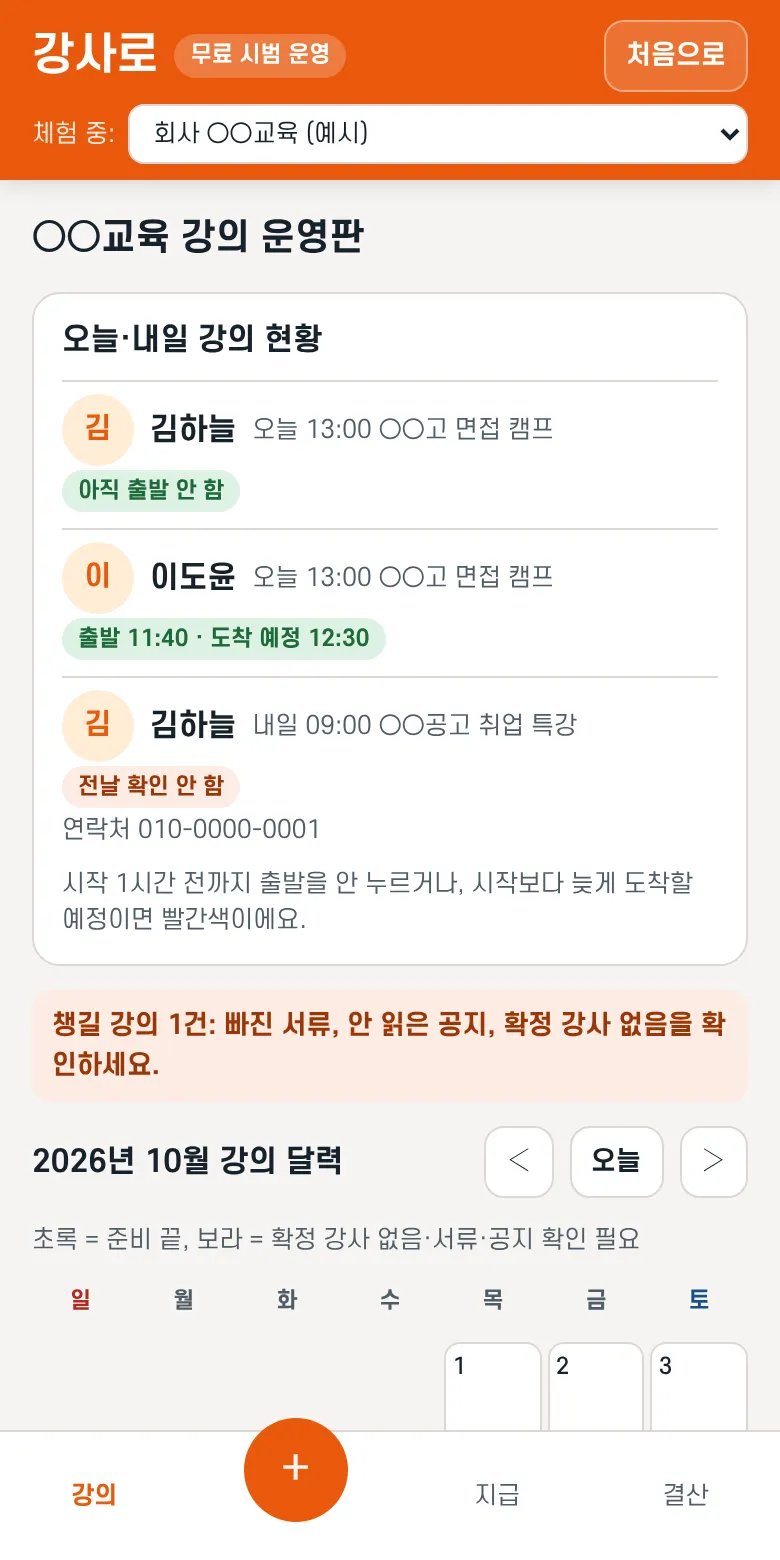
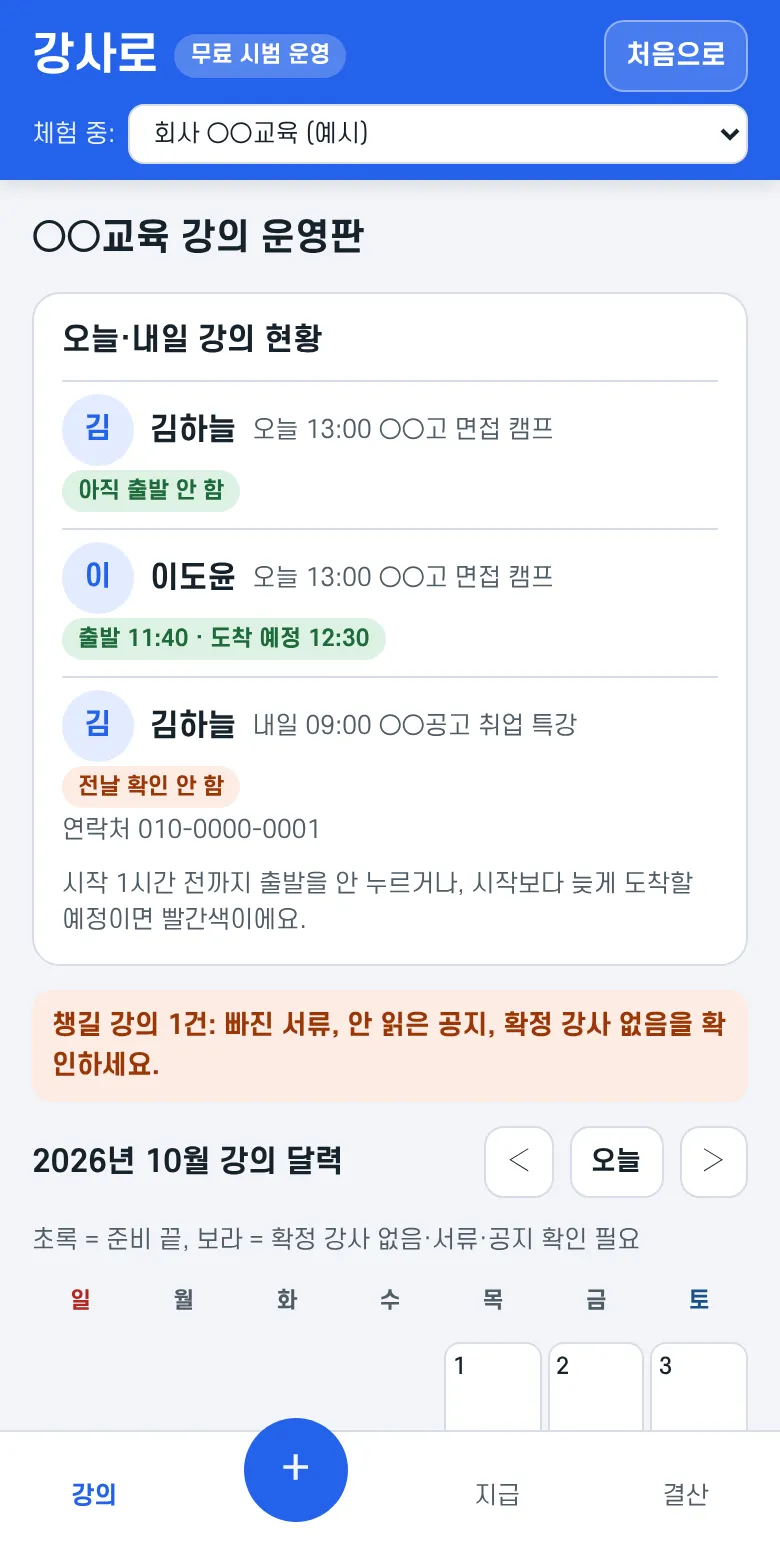
강사로: 대표색 파랑으로 (앱·상세페이지·설명서·아이콘·공유 이미지), 설명서 그림 새로 찍기
Claude-Session: https://claude.ai/code/session_018M85gFWJ3GPBYsgb4KDKGf

diff --git a/kangsaro/app/index.html b/kangsaro/app/index.html
@@ -4,19 +4,19 @@
 <meta charset="utf-8">
 <meta name="viewport" content="width=device-width,initial-scale=1,viewport-fit=cover">
 <meta name="robots" content="noindex">
-<meta name="build" content="261029-0146">
+<meta name="build" content="261029-0203">
 <title>강사로</title>
 <link rel="manifest" href="manifest.webmanifest">
-<meta name="theme-color" content="#EA580C">
+<meta name="theme-color" content="#2563EB">
 <link rel="apple-touch-icon" href="../try/icons/apple-touch-icon.png">
 <meta name="apple-mobile-web-app-capable" content="yes">
 <meta name="apple-mobile-web-app-title" content="강사로">
 <link rel="stylesheet" href="../fonts/font.css">
 <style>
-:root{--bg:#F6F4F2;--sf:#FFFFFF;--fg:#16222B;--mu:#4F5D66;--ln:#DDD8D3;--ac:#EA580C;--acs:#FFEDD5;--hd:#EA580C;--nv:#2D3E73;--nvs:#E3E7F4;
+:root{--bg:#F3F5F9;--sf:#FFFFFF;--fg:#16222B;--mu:#4F5D66;--ln:#D7DDE6;--ac:#2563EB;--acs:#E3ECFF;--hd:#2563EB;--nv:#2D3E73;--nvs:#E3E7F4;
 --g1:#E3E7E9;--g2:#3B4650;--b1:#DCEBFA;--b2:#1A4F8A;--p1:#ECE2F7;--p2:#5B3A8C;--k1:#DDF1E4;--k2:#1E6B3A;--r1:#FDECE3;--r2:#9A3608;--sun:#B3261E;
 font-family:'S-Core Dream','Apple SD Gothic Neo','Malgun Gothic',sans-serif}
-@media (prefers-color-scheme:dark){:root{--bg:#0B1113;--sf:#1D2A2E;--fg:#E7EEEE;--mu:#A3B2B5;--ln:#33464B;--ac:#FF8A4C;--acs:#3A2214;--hd:#C2410C;--nv:#9DAEE6;--nvs:#1E2640;
+@media (prefers-color-scheme:dark){:root{--bg:#0B1113;--sf:#1D2A2E;--fg:#E7EEEE;--mu:#A3B2B5;--ln:#33464B;--ac:#6B9BFF;--acs:#1A2747;--hd:#1D4ED8;--nv:#9DAEE6;--nvs:#1E2640;
 --g1:#2A3337;--g2:#C9D2D6;--b1:#1B2F47;--b2:#9CC6F2;--p1:#2E2540;--p2:#CDB5EE;--k1:#173426;--k2:#94D9AE;--r1:#3A2116;--r2:#F2A57E;--sun:#F28B82;color-scheme:dark}}
 *{box-sizing:border-box}
 body{margin:0;background:var(--bg);color:var(--fg);font-size:15px;line-height:1.55}
@@ -323,8 +323,8 @@ function pdfPage(p,cf){const V=verified(p.id),cr=String(p.career||'').split('\n'
   <p class="ft">강사로에서 받은 프로필 · ${todayIso().replace(/-/g,'.')}</p></section>`}
 function printPdf(title,pages){const html=`<!doctype html><html lang="ko"><head><meta charset="utf-8"><title>${esc(title)}</title><link rel="stylesheet" href="${new URL('../fonts/font.css',location.href).href}"><style>
   body{font-family:'S-Core Dream','Pretendard','Noto Sans KR',system-ui,sans-serif;color:#1d2329;margin:0}section{padding:28px 32px;page-break-after:always}section:last-child{page-break-after:auto}
-  .hd{display:flex;justify-content:space-between;font-size:12px;color:#5b6670;border-bottom:2px solid #EA580C;padding-bottom:6px;margin-bottom:18px}.top{display:flex;gap:18px;align-items:center}
-  img{width:110px;height:110px;border-radius:50%;object-fit:cover}h1{font-size:26px;margin:0 0 6px}h2{font-size:16px;margin:22px 0 4px;color:#1f6f78}p{margin:4px 0;font-size:14px;line-height:1.6}
+  .hd{display:flex;justify-content:space-between;font-size:12px;color:#5b6670;border-bottom:2px solid #2563EB;padding-bottom:6px;margin-bottom:18px}.top{display:flex;gap:18px;align-items:center}
+  img{width:110px;height:110px;border-radius:50%;object-fit:cover}h1{font-size:26px;margin:0 0 6px}h2{font-size:16px;margin:22px 0 4px;color:#2563EB}p{margin:4px 0;font-size:14px;line-height:1.6}
   .intro{margin-top:14px}.mu{color:#5b6670;font-size:12px}ul{margin:6px 0;padding-left:18px;font-size:14px;line-height:1.7}.ft{margin-top:28px;font-size:11px;color:#8a949c}
   @page{size:A4;margin:12mm}</style></head><body>${pages.join('')}</body></html>`;
   const w=window.open('','_blank');if(w){w.document.write(html);w.document.close();w.onload=()=>w.print();setTimeout(()=>{try{w.print()}catch(e){}},600);return toast("인쇄 창에서 'PDF로 저장'을 고르세요")}
@@ -828,6 +828,6 @@ document.addEventListener('paste',ev=>{if(ev.target.id==='pRaw')setTimeout(()=>{
 document.addEventListener('input',ev=>{if(['pDates','pRaw'].includes(ev.target.id))pWarn()});
 render();
 </script>
-<script type="module" src="real.js?v=261029-0146"></script>
+<script type="module" src="real.js?v=261029-0203"></script>
 </body>
 </html>

diff --git a/kangsaro/index.html b/kangsaro/index.html
@@ -17,8 +17,8 @@
 <style>
 /* 레이아웃: 강사 쪽(청록)과 회사 쪽(남색) 두 줄기가 '다리' 하나로 만나는 세로 흐름. 불편 → 해결 → 기능 → 반박 순서 */
 :root{
-  --bg:#F7F5F3; --surface:#FFFFFF; --fg:#15222A; --muted:#4D5B63; --line:#D6DEDC;
-  --teal:#EA580C; --teal-soft:#FFEDD5; --hero:#EA580C; --hero2:#C2410C; --navy:#2D3E73; --navy-soft:#E3E7F4;
+  --bg:#F3F5F9; --surface:#FFFFFF; --fg:#15222A; --muted:#4D5B63; --line:#D6DEDC;
+  --teal:#2563EB; --teal-soft:#E3ECFF; --hero:#2563EB; --hero2:#1E40AF; --navy:#2D3E73; --navy-soft:#E3E7F4;
   --gray-chip:#E3E7E9; --gray-fg:#3B4650; --blue-chip:#DCEBFA; --blue-fg:#1A4F8A;
   --purple-chip:#ECE2F7; --purple-fg:#5B3A8C; --green-chip:#DDF1E4; --green-fg:#1E6B3A;
   --warn:#9A3608; --warn-soft:#FDECE3;
@@ -27,13 +27,13 @@
 }
 @media (prefers-color-scheme: dark){:root:not([data-theme="light"]){
   --bg:#0F1719; --surface:#172225; --fg:#E7EEEE; --muted:#A3B2B5; --line:#2C3A3E;
-  --teal:#FF8A4C; --teal-soft:#3A2214; --hero:#C2410C; --hero2:#9A3412; --navy:#9DAEE6; --navy-soft:#1E2640;
+  --teal:#6B9BFF; --teal-soft:#1A2747; --hero:#1D4ED8; --hero2:#1E3A8A; --navy:#9DAEE6; --navy-soft:#1E2640;
   --gray-chip:#2A3337; --gray-fg:#C9D2D6; --blue-chip:#1B2F47; --blue-fg:#9CC6F2;
   --purple-chip:#2E2540; --purple-fg:#CDB5EE; --green-chip:#173426; --green-fg:#94D9AE;
   --warn:#F2A57E; --warn-soft:#3A2116; color-scheme:dark}}
 :root[data-theme="dark"]{
   --bg:#0F1719; --surface:#172225; --fg:#E7EEEE; --muted:#A3B2B5; --line:#2C3A3E;
-  --teal:#FF8A4C; --teal-soft:#3A2214; --hero:#C2410C; --hero2:#9A3412; --navy:#9DAEE6; --navy-soft:#1E2640;
+  --teal:#6B9BFF; --teal-soft:#1A2747; --hero:#1D4ED8; --hero2:#1E3A8A; --navy:#9DAEE6; --navy-soft:#1E2640;
   --gray-chip:#2A3337; --gray-fg:#C9D2D6; --blue-chip:#1B2F47; --blue-fg:#9CC6F2;
   --purple-chip:#2E2540; --purple-fg:#CDB5EE; --green-chip:#173426; --green-fg:#94D9AE;
   --warn:#F2A57E; --warn-soft:#3A2116; color-scheme:dark}
@@ -50,7 +50,7 @@ section{display:flex;flex-direction:column;gap:18px}
 .lead{font-size:17px;color:var(--muted)}
 .btns{display:flex;flex-wrap:wrap;gap:10px}
 .btn{display:inline-flex;align-items:center;justify-content:center;min-height:52px;padding:0 22px;border-radius:14px;font-weight:700;font-size:16px;text-decoration:none;font-family:inherit;cursor:pointer}
-.btn.primary{background:var(--teal);color:#fff;border:0;box-shadow:0 6px 16px rgba(234,88,12,.25)}
+.btn.primary{background:var(--teal);color:#fff;border:0;box-shadow:0 6px 16px rgba(37,99,235,.25)}
 .btn.ghost{background:transparent;color:var(--fg);border:1.5px solid var(--line)}
 .btn:focus-visible{outline:3px solid var(--navy);outline-offset:2px}
 .note{font-size:13px;color:var(--muted)}
@@ -102,10 +102,10 @@ summary:focus-visible{outline:2px solid var(--teal);outline-offset:2px;border-ra
 .hero .in{max-width:960px;margin:0 auto;display:grid;grid-template-columns:minmax(0,1.1fr) minmax(0,.9fr);gap:28px;align-items:end}
 @media (max-width:760px){.hero .in{grid-template-columns:1fr;gap:20px}}
 .hero .txt{display:flex;flex-direction:column;gap:16px;padding-bottom:36px}
-.hero .eyebrow{color:#FFE3D2}
+.hero .eyebrow{color:#DCE7FF}
 .hero h1{color:#fff;font-size:clamp(30px,7.5vw,46px);line-height:1.28}
 .hero h1 em{font-style:normal;background:#fff;color:var(--hero2);padding:0 8px;border-radius:8px;box-decoration-break:clone;-webkit-box-decoration-break:clone}
-.hero .lead{color:#FFF1E8;font-size:18px}
+.hero .lead{color:#EEF3FF;font-size:18px}
 .hero .btn.primary{background:#fff;color:var(--hero2);box-shadow:0 8px 20px rgba(0,0,0,.18)}
 .hero .btn.ghost{color:#fff;border-color:rgba(255,255,255,.6)}
 .hero .meta{display:flex;flex-wrap:wrap;gap:8px}

diff --git a/kangsaro/try/index.html b/kangsaro/try/index.html
@@ -7,16 +7,16 @@
 <meta name="build" content="261028-2">
 <title>강사로 (시범 운영)</title>
 <link rel="manifest" href="manifest.webmanifest">
-<meta name="theme-color" content="#EA580C">
+<meta name="theme-color" content="#2563EB">
 <link rel="apple-touch-icon" href="icons/apple-touch-icon.png">
 <meta name="apple-mobile-web-app-capable" content="yes">
 <meta name="apple-mobile-web-app-title" content="강사로">
 <link rel="stylesheet" href="../fonts/font.css">
 <style>
-:root{--bg:#F6F4F2;--sf:#FFFFFF;--fg:#16222B;--mu:#4F5D66;--ln:#DDD8D3;--ac:#EA580C;--acs:#FFEDD5;--hd:#EA580C;--nv:#2D3E73;--nvs:#E3E7F4;
+:root{--bg:#F3F5F9;--sf:#FFFFFF;--fg:#16222B;--mu:#4F5D66;--ln:#D7DDE6;--ac:#2563EB;--acs:#E3ECFF;--hd:#2563EB;--nv:#2D3E73;--nvs:#E3E7F4;
 --g1:#E3E7E9;--g2:#3B4650;--b1:#DCEBFA;--b2:#1A4F8A;--p1:#ECE2F7;--p2:#5B3A8C;--k1:#DDF1E4;--k2:#1E6B3A;--r1:#FDECE3;--r2:#9A3608;--sun:#B3261E;
 font-family:'S-Core Dream','Apple SD Gothic Neo','Malgun Gothic',sans-serif}
-@media (prefers-color-scheme:dark){:root{--bg:#0B1113;--sf:#1D2A2E;--fg:#E7EEEE;--mu:#A3B2B5;--ln:#33464B;--ac:#FF8A4C;--acs:#3A2214;--hd:#C2410C;--nv:#9DAEE6;--nvs:#1E2640;
+@media (prefers-color-scheme:dark){:root{--bg:#0B1113;--sf:#1D2A2E;--fg:#E7EEEE;--mu:#A3B2B5;--ln:#33464B;--ac:#6B9BFF;--acs:#1A2747;--hd:#1D4ED8;--nv:#9DAEE6;--nvs:#1E2640;
 --g1:#2A3337;--g2:#C9D2D6;--b1:#1B2F47;--b2:#9CC6F2;--p1:#2E2540;--p2:#CDB5EE;--k1:#173426;--k2:#94D9AE;--r1:#3A2116;--r2:#F2A57E;--sun:#F28B82;color-scheme:dark}}
 *{box-sizing:border-box}
 body{margin:0;background:var(--bg);color:var(--fg);font-size:15px;line-height:1.55}
@@ -323,8 +323,8 @@ function pdfPage(p,cf){const V=verified(p.id),cr=String(p.career||'').split('\n'
   <p class="ft">강사로에서 받은 프로필 · ${todayIso().replace(/-/g,'.')}</p></section>`}
 function printPdf(title,pages){const html=`<!doctype html><html lang="ko"><head><meta charset="utf-8"><title>${esc(title)}</title><link rel="stylesheet" href="${new URL('../fonts/font.css',location.href).href}"><style>
   body{font-family:'S-Core Dream','Pretendard','Noto Sans KR',system-ui,sans-serif;color:#1d2329;margin:0}section{padding:28px 32px;page-break-after:always}section:last-child{page-break-after:auto}
-  .hd{display:flex;justify-content:space-between;font-size:12px;color:#5b6670;border-bottom:2px solid #EA580C;padding-bottom:6px;margin-bottom:18px}.top{display:flex;gap:18px;align-items:center}
-  img{width:110px;height:110px;border-radius:50%;object-fit:cover}h1{font-size:26px;margin:0 0 6px}h2{font-size:16px;margin:22px 0 4px;color:#1f6f78}p{margin:4px 0;font-size:14px;line-height:1.6}
+  .hd{display:flex;justify-content:space-between;font-size:12px;color:#5b6670;border-bottom:2px solid #2563EB;padding-bottom:6px;margin-bottom:18px}.top{display:flex;gap:18px;align-items:center}
+  img{width:110px;height:110px;border-radius:50%;object-fit:cover}h1{font-size:26px;margin:0 0 6px}h2{font-size:16px;margin:22px 0 4px;color:#2563EB}p{margin:4px 0;font-size:14px;line-height:1.6}
   .intro{margin-top:14px}.mu{color:#5b6670;font-size:12px}ul{margin:6px 0;padding-left:18px;font-size:14px;line-height:1.7}.ft{margin-top:28px;font-size:11px;color:#8a949c}
   @page{size:A4;margin:12mm}</style></head><body>${pages.join('')}</body></html>`;
   const w=window.open('','_blank');if(w){w.document.write(html);w.document.close();w.onload=()=>w.print();setTimeout(()=>{try{w.print()}catch(e){}},600);return toast("인쇄 창에서 'PDF로 저장'을 고르세요")}

diff --git a/kangsaro/guide/guide.css b/kangsaro/guide/guide.css
@@ -1,5 +1,5 @@
-:root{--bg:#F3F5F4;--sf:#fff;--fg:#16222B;--mu:#4F5D66;--ln:#D5DDDC;--ac:#1F6F78;--acs:#E1EEEE;--nv:#2D3E73;--nvs:#E3E7F4;--warn:#9A3608;--warns:#FDECE3}
-@media (prefers-color-scheme:dark){:root{--bg:#0F1719;--sf:#172225;--fg:#E7EEEE;--mu:#A3B2B5;--ln:#2C3A3E;--ac:#5FB7BF;--acs:#183338;--nv:#9DAEE6;--nvs:#1E2640;--warn:#F2A57E;--warns:#3A2116;color-scheme:dark}}
+:root{--bg:#F3F5F4;--sf:#fff;--fg:#16222B;--mu:#4F5D66;--ln:#D5DDDC;--ac:#2563EB;--acs:#E3ECFF;--nv:#2D3E73;--nvs:#E3E7F4;--warn:#9A3608;--warns:#FDECE3}
+@media (prefers-color-scheme:dark){:root{--bg:#0F1719;--sf:#172225;--fg:#E7EEEE;--mu:#A3B2B5;--ln:#2C3A3E;--ac:#6B9BFF;--acs:#1A2747;--nv:#9DAEE6;--nvs:#1E2640;--warn:#F2A57E;--warns:#3A2116;color-scheme:dark}}
 *{box-sizing:border-box}
 body{margin:0;background:var(--bg);color:var(--fg);font-family:'S-Core Dream','Apple SD Gothic Neo','Malgun Gothic',sans-serif;font-size:16px;line-height:1.75;word-break:keep-all}
 main{max-width:720px;margin:0 auto;padding:24px 16px 64px}

diff --git a/kangsaro/privacy.html b/kangsaro/privacy.html
@@ -6,8 +6,8 @@
 <title>강사로 개인정보 처리방침</title>
 <link rel="stylesheet" href="fonts/font.css">
 <style>
-:root{--bg:#F3F5F4;--fg:#16222B;--mu:#4F5D66;--ac:#1F6F78;--ln:#D5DDDC}
-@media (prefers-color-scheme:dark){:root{--bg:#0F1719;--fg:#E7EEEE;--mu:#A3B2B5;--ac:#5FB7BF;--ln:#2C3A3E}}
+:root{--bg:#F3F5F4;--fg:#16222B;--mu:#4F5D66;--ac:#2563EB;--ln:#D5DDDC}
+@media (prefers-color-scheme:dark){:root{--bg:#0F1719;--fg:#E7EEEE;--mu:#A3B2B5;--ac:#6B9BFF;--ln:#2C3A3E}}
 body{background:var(--bg);color:var(--fg);font-family:'S-Core Dream','Apple SD Gothic Neo','Malgun Gothic',system-ui,sans-serif;line-height:1.7;margin:0}
 main{max-width:720px;margin:0 auto;padding:24px 16px 60px}
 h1{font-size:24px}h2{font-size:17px;margin-top:28px;color:var(--ac)}
